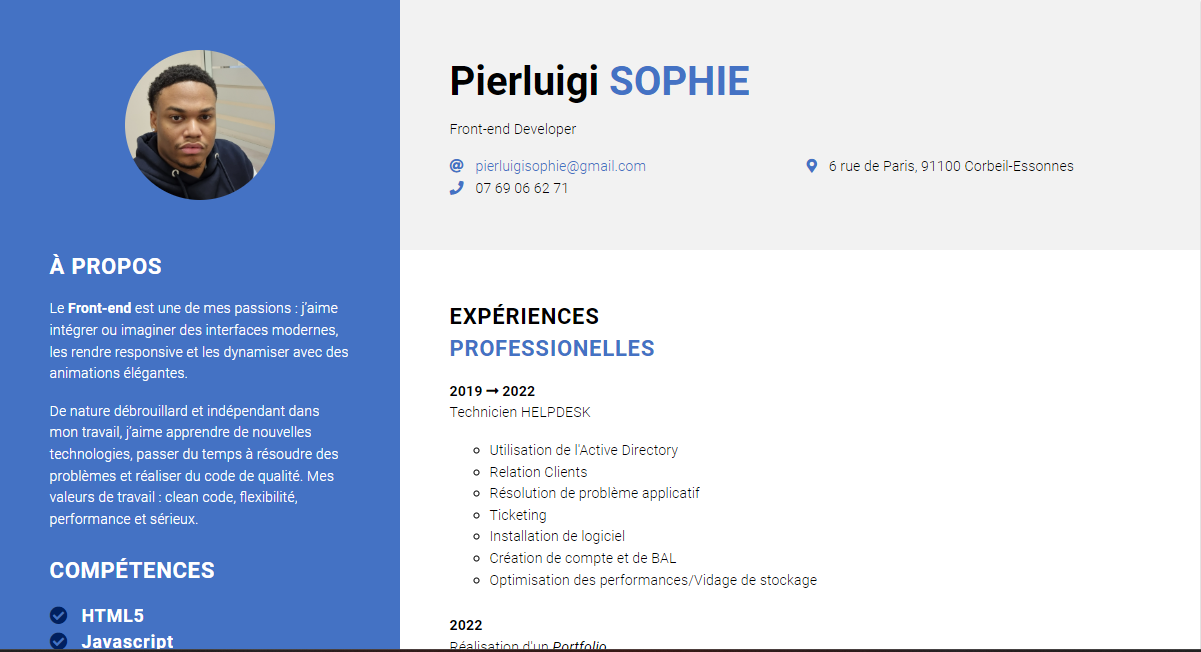
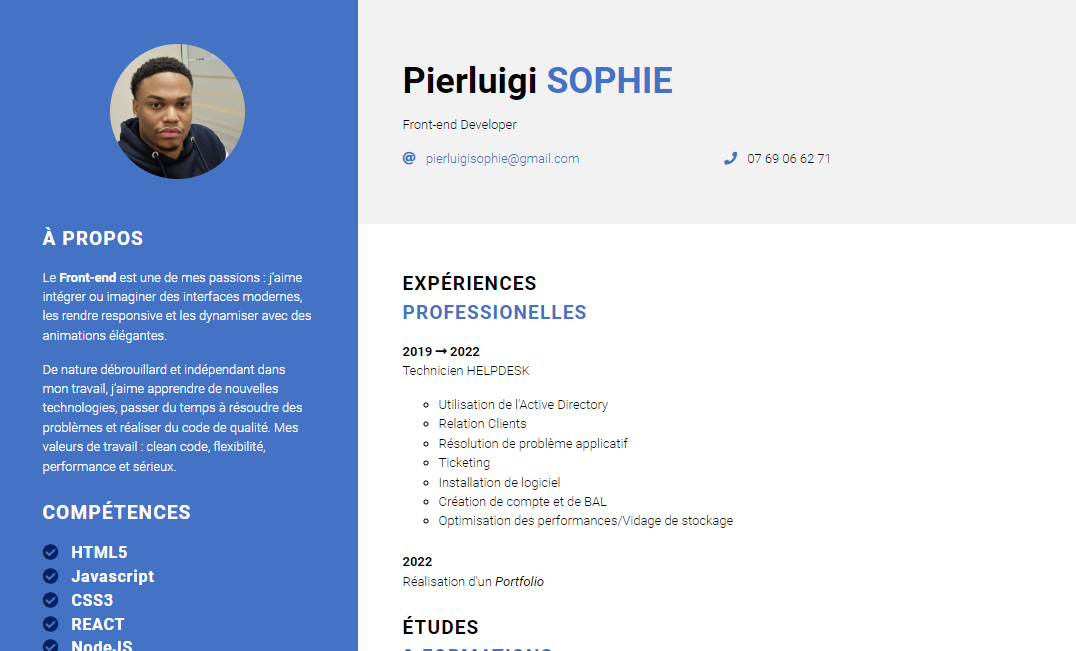
Modification du CV

diff --git a/CVindex.html b/CVindex.html
@@ -41,12 +41,14 @@
           <div class="section">
             <h2>COMPÉTENCES</h2>
             <ul class="skills">
-              <li><i class="icon fas fa-check-circle text-darkblue"></i> <strong>HTML5</strong></li>
+              <li><i class="icon fas fa-check-circle text-darkblue"></i> <strong>HTML5/CSS3</strong></li>
               <li><i class="icon fas fa-check-circle text-darkblue"></i> <strong>Javascript</strong></li>
-              <li><i class="icon fas fa-check-circle text-darkblue"></i> <strong>CSS3</strong></li>
+              <li><i class="icon fas fa-check-circle text-darkblue"></i> <strong>Git/Github</strong></li>
               <li><i class="icon fas fa-check-circle text-darkblue"></i> <strong>REACT</strong></li>
               <li><i class="icon fas fa-check-circle text-darkblue"></i> <strong>NodeJS</strong></li>
               <li><i class="icon fas fa-check-circle text-darkblue"></i> <strong>MongoDB</strong></li>
+              <li><i class="icon fas fa-check-circle text-darkblue"></i> <strong>Express.js</strong></li>
+              <li><i class="icon fas fa-check-circle text-darkblue"></i> <strong>Méthodes Agiles</strong></li>
             </ul>
           </div>
           <div class="section">
@@ -105,6 +107,38 @@
                 <br>
                 Réalisation d'un <em>Portfolio</em>
               </p>
+
+              <ul class="experience-list">
+                <li>Utilisation HTML/CSS</li>
+                <li>Utilisation Git/Github</li>
+                <li>Apprentissage Figma</li>
+              </ul>
+              <br>
+              <strong>2023</strong>
+              <br>
+              <p>Réalisation d'un site de location en REACT</p>
+              <ul class="experience-list">
+                <li>Méthodes Agiles/L'utilisation d'un Kanban</li>
+                <li>Utilisation de State</li>
+                <li>Utilisation des Hooks</li>
+                <li>REACT DOM</li>
+                <li>Create REACT APP</li>
+                <li>Utilisation des Routes GET/POST/DELETE</li>
+                <li>Utilisation d'une API</li>
+                
+              </ul>
+              <br>
+              <strong>2023</strong>
+              <br>
+              <p>Conception d'un site de photographe</p>
+              <ul class="experience-list">
+                <li>Méthodes Agiles/L'utilisation d'un Kanban</li>
+                <li>Utilisation de Javascript Vanilla</li>
+                <li>Déboggage</li>
+                <li>Optimation du site</li>
+                <li>Audit lighthouse</li>
+                
+              </ul>
             </div>
             <div class="section">
               <h2>Études <br><span class="text-blue">& formations</span></h2>
@@ -114,9 +148,15 @@
               <p>
                 <strong>2022</strong>
                 <br>
-                Obtention d'une certification <em>HTML5</em> et <em>CSS3</em> sur UDEMY
+                Obtention d'une certification HTML5 et CSS3
                 <br>
-                Obtention d'une certification <em>Mettre un site en ligne</em> sur UDEMY
+                Obtention d'une certification Mettre un site en ligne
+                <br>
+                Obtention d'une certification Javascript
+                <br>
+                Obtention d'une certification Git/Github
+                <br>
+                Obtention d'une certification Veille Informationnelle
               </p>
               <p>
                 <strong>2017 <i class="fas fa-long-arrow-alt-right"></i> 2019</strong>

diff --git a/index.html b/index.html
@@ -97,6 +97,8 @@
                 </div>
                         <span>Curriculum Vitae</span>
                         <span class="date-project">15 / 07 / 2023</span>
+                        <div class="description2">CV en ligne fait en Html/CSS</div>
+                </a>
                         
                         
                  </a>
@@ -121,9 +123,9 @@
                         <img src="./assets/Locantilles.png" alt="Projet Booki">
                     </div>
                         <span>LocAntilles</span>
-                        <span class="date-project">07 / 03 / 2023</span>
+                        <span class="date-project">10 / 10 / 2023</span>
                         <span class="description">HTML/CSS</span>
-                        <div class="description2">Site de location que je suis entrain de concevoir</div>
+                        <div class="description2">Site de location que je suis entrain de concevoir, je suis qu'a l'intégration</div>
                 </a>
         </div>
 
@@ -164,7 +166,8 @@
                 <span>Site de photographe</span>
                 <span class="date-project">29 / 05 / 2023</span>
                 <span class="description">Javascript</span>
-                <div class="description2">Site d'une photographe pour présenter ces differentes photo</a>
+                <div class="description2">Site d'une photographe pour présenter ces differentes photo</div>
+            </a>
 
 </div>
 

diff --git a/CVstyle.css b/CVstyle.css
@@ -125,4 +125,7 @@
     list-style-type: circle;
   }
 
+  p, ul{
+    font-size: 18px;
+  }
 
